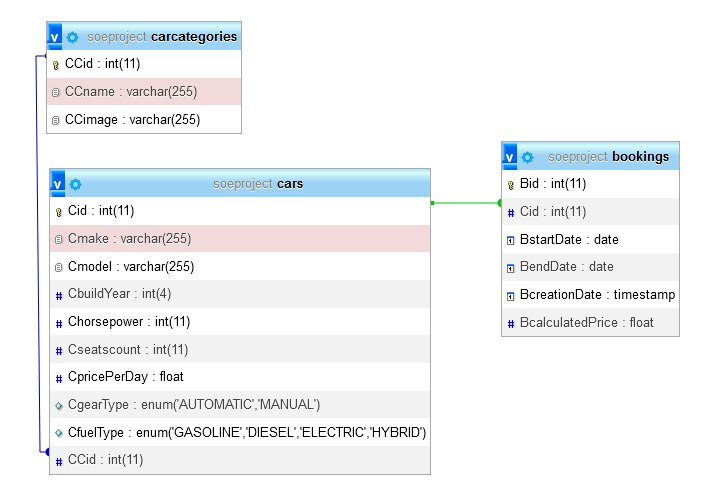
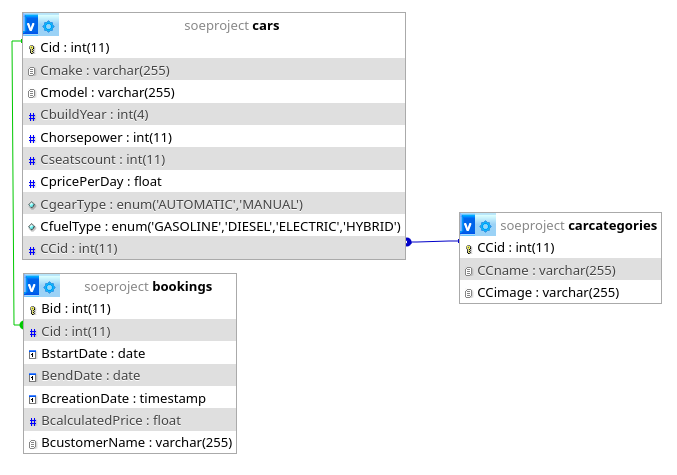
add new stuff to docs

diff --git a/README.md b/README.md
@@ -70,6 +70,7 @@ Die folgende Tabelle beschreibt die in der Datenbank definierten Tabellen und ih
 |                   | - `BendDate` (date)                                              | Enddatum der Buchung.                                                     |
 |                   | - `BcreationDate` (timestamp, Default: `current_timestamp()`)    | Erstellungszeitpunkt der Buchung.                                         |
 |                   | - `BcalculatedPrice` (float)                                     | Berechneter Gesamtpreis der Buchung.                                      |
+|                   | - `BcustomerName` (varchar(255))                                 | Name des Kunden                                                           |
 | **carcategories** | - `CCid` (int, Primary Key, AUTO_INCREMENT)                      | Eindeutige ID der Fahrzeugkategorie.                                      |
 |                   | - `CCname` (varchar(255))                                        | Name der Fahrzeugkategorie (z. B. "SUV", "JDM").                          |
 |                   | - `CCimage` (varchar(255))                                       | Bilddateiname der Fahrzeugkategorie.                                      |
@@ -137,8 +138,10 @@ Bestätigung nach dem Buchen
 #### `/admin` (Admin Dashboard)
 
 Admin Landing Page
-Hier werden alle autos aufgelistst
+Hier werden alle autos aufgelistst + Alle offenen Buchungen
 ![Landing Page Screenshot](_docs/img/admin.png)
+
+![Landing Page Screenshot](_docs/img/bookedlist.png)
 
 #### `/admin/cars/create` (Create Car Page)
 
